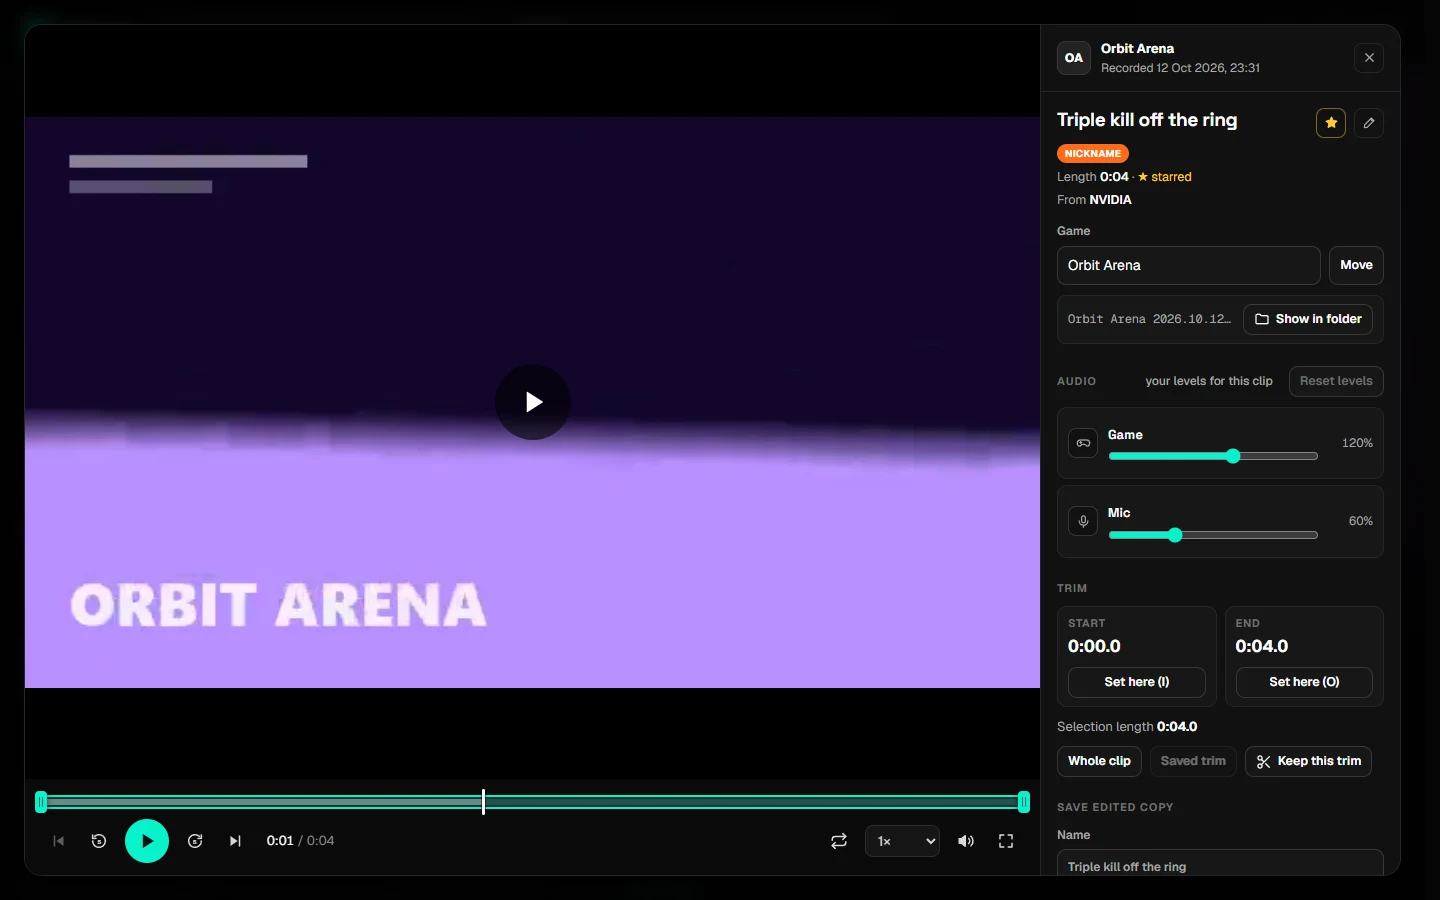
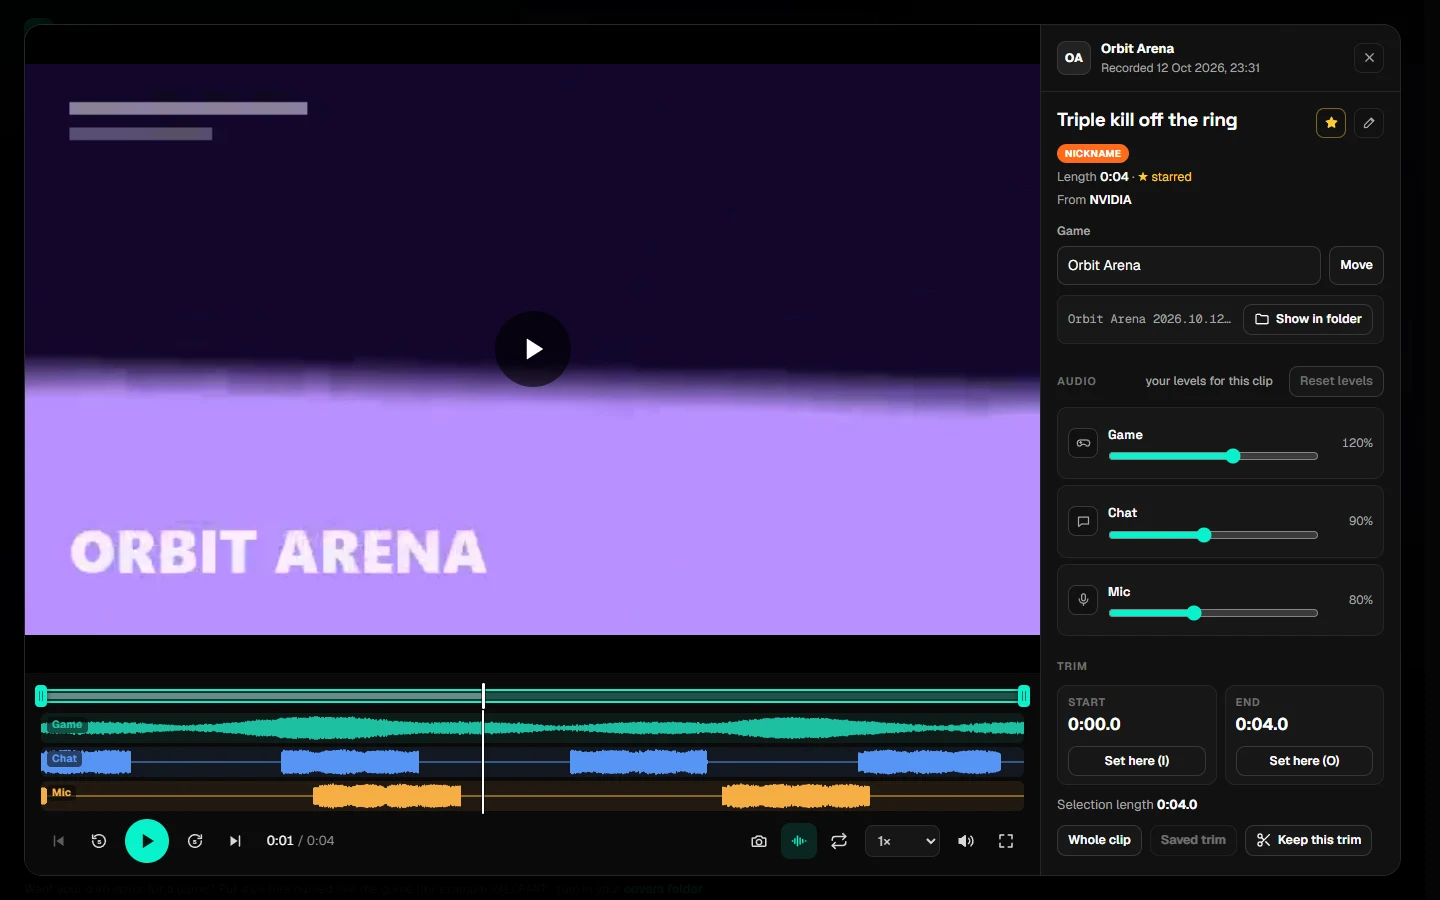
Player screenshot with waveforms; read ffmpeg 9's track names
- docs/images/player.webp (README and website) now shows the waveform
  lanes, from the made-up demo library: its featured clip got generated
  Game, Chat and Mic tracks.
- ffmpeg 9 reads names written into MP4 tracks back as a "name" tag, not
  "title", so named tracks in folder clips showed as Track 1, 2, 3.
  media.track_title reads title, then name, then handler_name.
- CHANGELOG: the smoother-playback fix under 0.5.0 (as in its release
  notes), its release date, and the track-name fix under Unreleased.

diff --git a/site/index.html b/site/index.html
@@ -208,7 +208,7 @@ code{overflow-wrap:anywhere}
 
       <div class="row">
         <div class="text"><h3>A proper player</h3><p>Every clip opens in a player built for game clips:</p><ul><li>Frame-by-frame stepping, loops, speeds and keyboard shortcuts</li><li>A separate volume for each recorded track</li><li>Trim handles, and "keep this trim" so previews play just the good part</li></ul></div>
-        <a class="shot" href="images/player.webp" aria-label="Open the player screenshot full size"><img src="images/player.webp" alt="The player with Game and Mic volume sliders and trim controls" loading="lazy" width="1440" height="900"></a>
+        <a class="shot" href="images/player.webp" aria-label="Open the player screenshot full size"><img src="images/player.webp" alt="The player: a waveform lane each for Game, Chat and Mic under the video, with their volume sliders and trim controls" loading="lazy" width="1440" height="900"></a>
       </div>
       <div class="row flip">
         <div class="text"><h3>Know your habits</h3><p>See what you played week by week, your top games, when you usually play and a calendar of clip days.</p><p><b>Up next</b> learns from your own history and tells you how often it's been right.</p></div>

diff --git a/cliptrove/media.py b/cliptrove/media.py
@@ -78,6 +78,12 @@ def portrait_graph(fit, crop_x, width, after=()):
             f"scale={w}:{h}" + tail)
 
 
+def track_title(tags):
+    """An audio track's name. ffmpeg 9 reads names written into MP4 files as "name"; older ones, and MKV files,
+    use "title"; some recorders only set a handler name."""
+    return tags.get("title") or tags.get("name") or tags.get("handler_name") or ""
+
+
 def stamp(path):
     st = os.stat(path)
     return f"{int(st.st_mtime)}-{st.st_size}"
@@ -111,7 +117,7 @@ class Media:
                 "ok": True, "probed": bool(self.ffprobe)}
         if self.ffprobe:
             r = run([self.ffprobe, "-v", "error", "-show_entries",
-                     "format=duration:stream=codec_type,codec_name,width,height:stream_tags=title,handler_name",
+                     "format=duration:stream=codec_type,codec_name,width,height:stream_tags=title,name,handler_name",
                      "-of", "json", path], timeout=120)
             try:
                 j = json.loads(r.stdout or "{}")
@@ -125,7 +131,7 @@ class Media:
             except (TypeError, ValueError):
                 duration = 0.0
             info.update(duration=duration, audio=len(audio),
-                        titles=[(s.get("tags") or {}).get("title") or (s.get("tags") or {}).get("handler_name") or ""
+                        titles=[track_title(s.get("tags") or {})
                                 for s in audio],
                         video=(video or {}).get("codec_name", ""), audioCodecs=[s.get("codec_name", "") for s in audio],
                         width=(video or {}).get("width") or 0, height=(video or {}).get("height") or 0,

diff --git a/tests/test_media.py b/tests/test_media.py
@@ -60,6 +60,16 @@ class WithFFmpeg(unittest.TestCase):
         self.assertAlmostEqual(info["duration"], 2.0, delta=0.15)
         self.assertEqual((info["audio"], info["video"], info["ok"]), (2, "h264", True))
 
+    def test_track_names(self):
+        # Named tracks, the way recorders and ffmpeg write them (newer ffmpeg reads them back as "name")
+        path = self.tmp.sub("clips", "named.mp4")
+        subprocess.run([support.FFMPEG, "-v", "error", "-y", "-i", self.mp4, "-map", "0", "-c", "copy",
+                        "-metadata:s:a:0", "title=Game", "-metadata:s:a:1", "title=Mic", path],
+                       check=True, capture_output=True, creationflags=NO_WINDOW)
+        self.assertEqual(self.m.probe(path)["titles"], ["Game", "Mic"])
+        self.assertEqual(media.track_title({"handler_name": "SoundHandler"}), "SoundHandler")
+        self.assertEqual(media.track_title({}), "")
+
     def test_probe_of_a_broken_file(self):
         info = self.m.probe(self.broken)
         self.assertFalse(info["ok"])

diff --git a/CHANGELOG.md b/CHANGELOG.md
@@ -1,6 +1,10 @@
 # Changelog
 
-## [0.5.0] - 2026-10-20
+## [Unreleased]
+
+- **Fixed:** named audio tracks in MP4 clips from folders (Game, Chat, Mic...) showed as Track 1, 2, 3 with newer versions of ffmpeg.
+
+## [0.5.0] - 2026-10-24
 
 - **ffmpeg comes included.** The Windows download now has ffmpeg built in, so thumbnails, Chat/Mic audio and saving edited copies work straight away. Nothing else to install.
 - **Waveforms.** Under the video, each track (Game, Chat, Mic) has its own lane showing its waveform, like in GG's editor. A lane grows and shrinks with its volume slider, so you can see your mix, and clicking a lane jumps there. Press W to hide them.
@@ -8,6 +12,7 @@
 - **Fades.** Saved copies can fade in and out, picture and sound.
 - **Copy and paste into Discord.** After saving, Copy puts the file on the clipboard: press Ctrl+V in Discord to send it.
 - **Save a still.** The camera button (or C) saves the frame on screen as a picture.
+- **Smoother playback.** Clips no longer stutter in the player outside fullscreen when your browser is drawing without the graphics card, which can happen right after a graphics driver update. (Restarting the browser also brings the graphics card back.)
 
 ## [0.4.1] - 2026-10-13
 

diff --git a/README.md b/README.md
@@ -137,7 +137,7 @@ Click any clip to open the player.
   - When it's saved, **Copy** puts the file on the clipboard: press Ctrl+V in Discord to send it.
 - **Save a still:** the camera button (or **C**) saves the frame on screen as a PNG, next to your edited copies.
 
-![The player with Game and Mic volume sliders, trim controls and saving](docs/images/player.webp)
+![The player: a waveform lane each for Game, Chat and Mic under the video, their volume sliders, and trim controls](docs/images/player.webp)
 
 <details>
 <summary>Keyboard shortcuts</summary>
